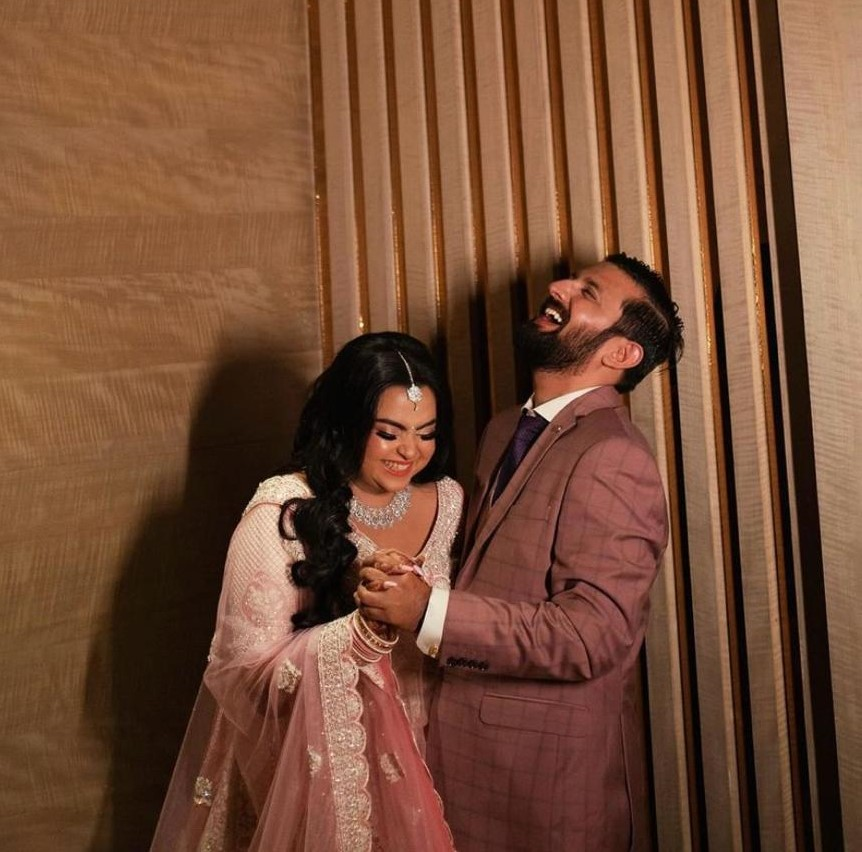
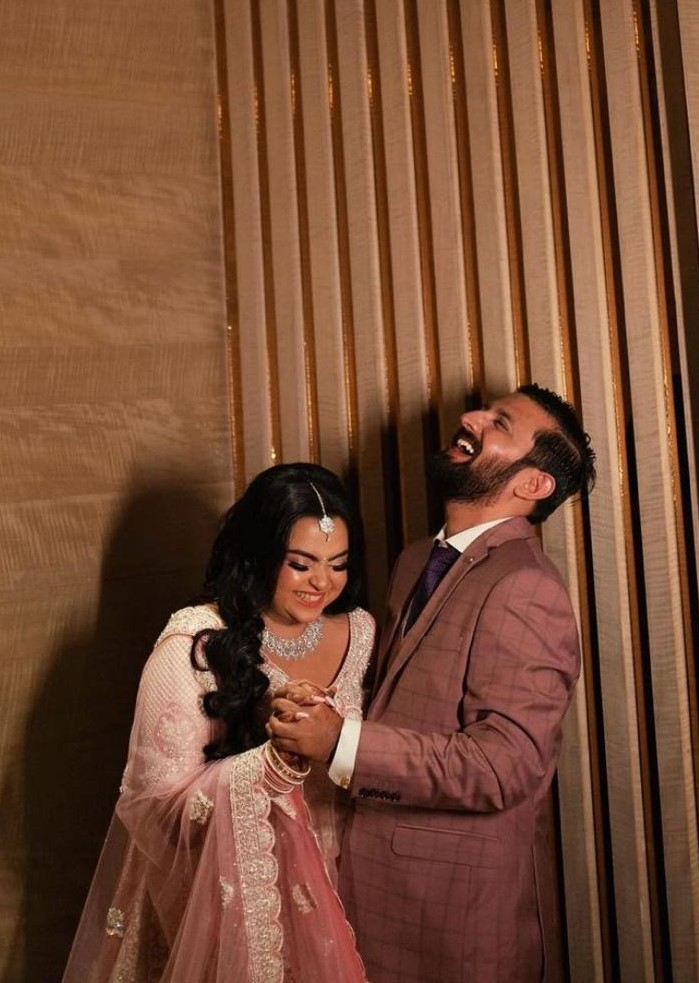
edit carousel size

diff --git a/index.html b/index.html
@@ -461,6 +461,8 @@
                         </small>
                     </div>
                 </div>
+                <br/>
+                <br/>
             </div>
         </div>
     </footer>
